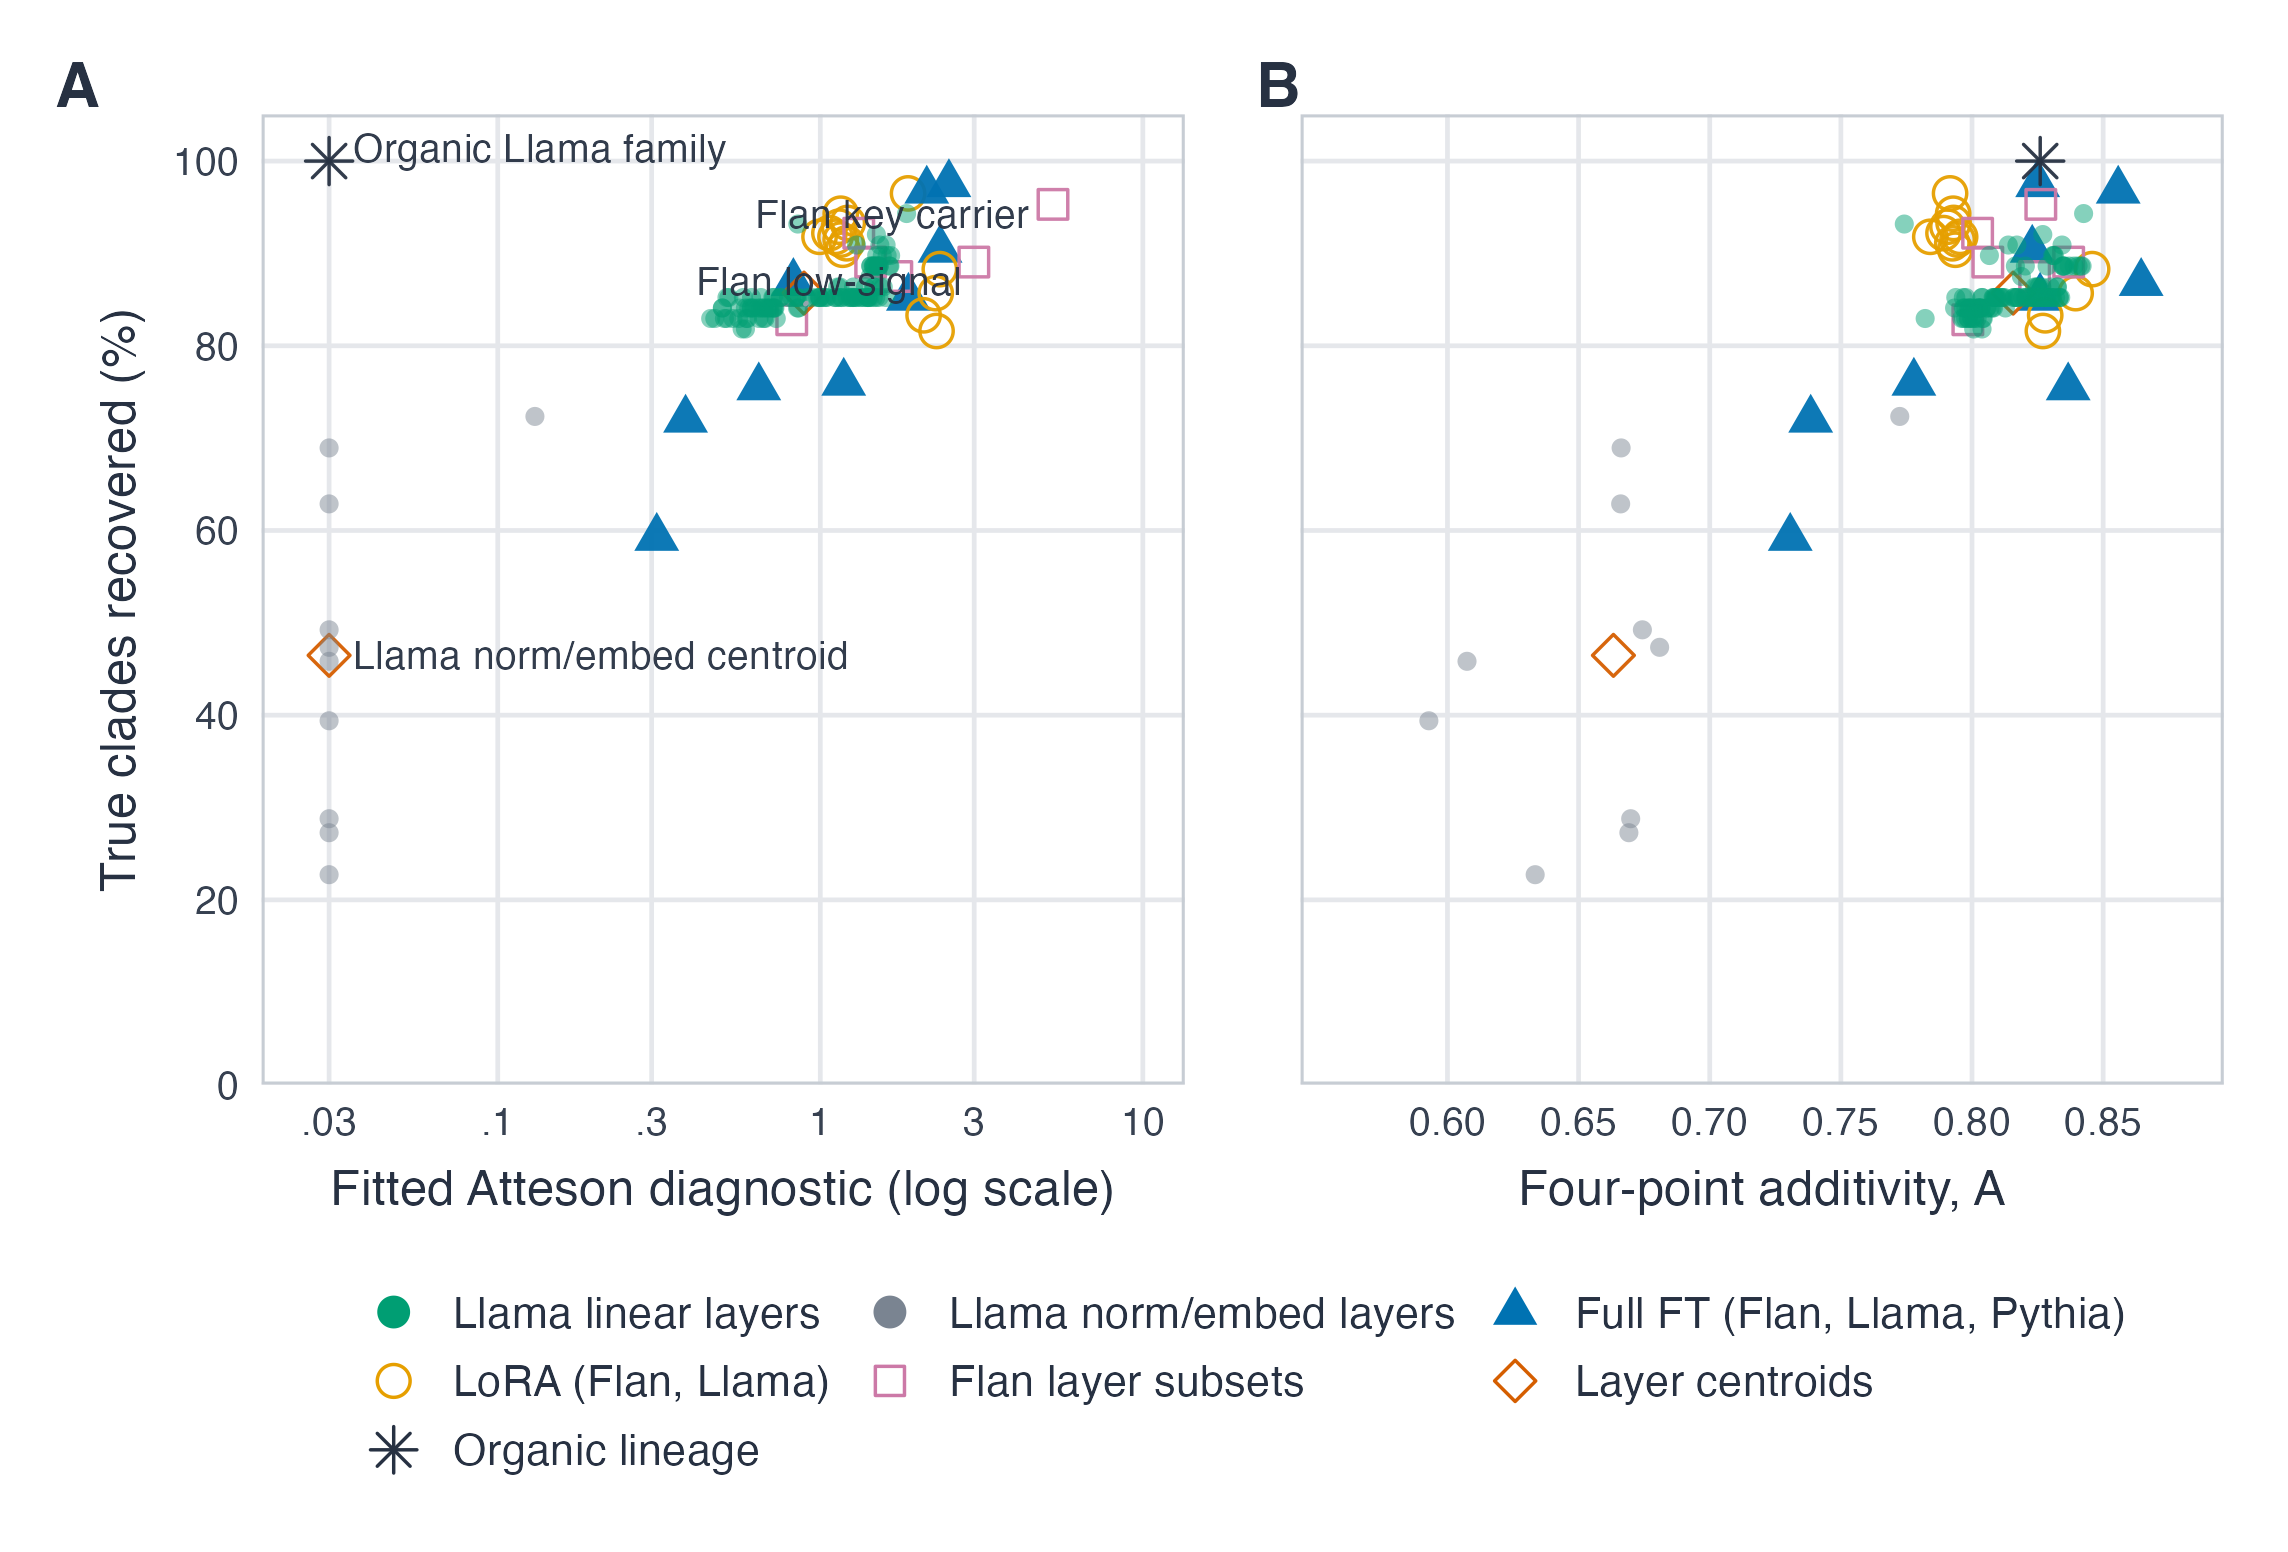
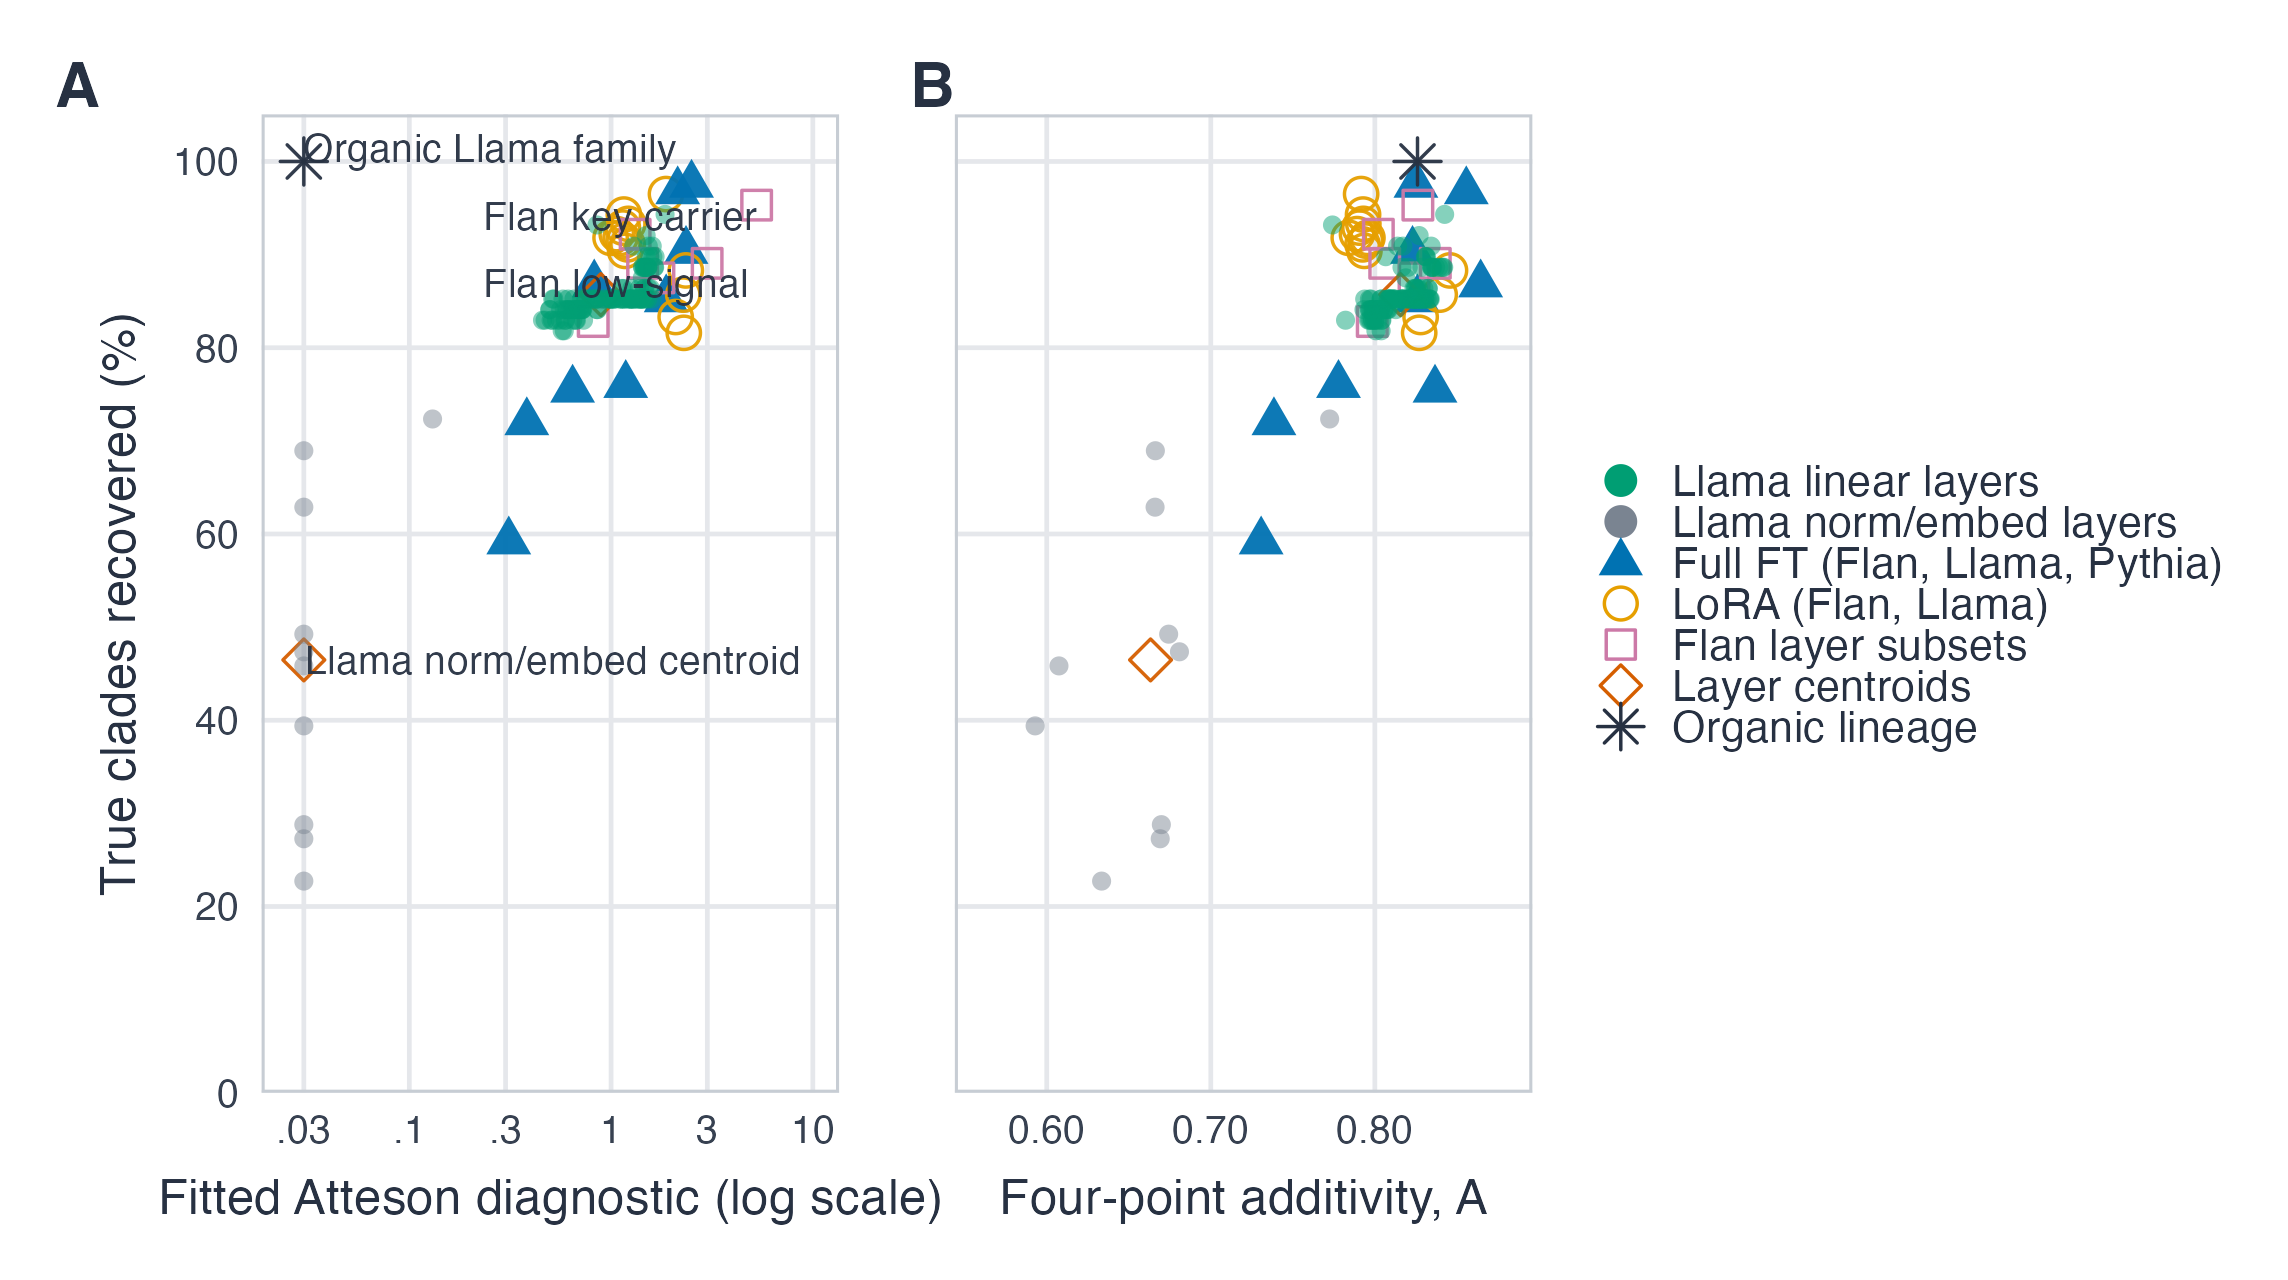
Polish figures and restore PhyloLM results

diff --git a/iclr_draft_v4.tex b/iclr_draft_v4.tex
@@ -11,6 +11,7 @@
 \usepackage{amsthm}
 \usepackage{enumitem}
 \usepackage{pifont}
+\DeclareMathSizes{9}{10}{7}{5}
 
 % Theorem environments and shared math notation.
 \newtheorem{theorem}{Theorem}
@@ -29,6 +30,21 @@
 \setlength{\intextsep}{8pt plus 2pt minus 2pt}
 \setlength{\abovecaptionskip}{4pt}
 \setlength{\belowcaptionskip}{2pt}
+
+% Compact captions: keep plots readable while avoiding body-sized caption blocks.
+\makeatletter
+\long\def\@makecaption#1#2{%
+  \vskip\abovecaptionskip
+  {\footnotesize
+    \sbox\@tempboxa{\textbf{#1:} #2}%
+    \ifdim \wd\@tempboxa >\hsize
+      \textbf{#1:} #2\par
+    \else
+      \global\@minipagefalse
+      \hb@xt@\hsize{\hfil\box\@tempboxa\hfil}%
+    \fi}
+  \vskip\belowcaptionskip}
+\makeatother
 
 % -----------------------------------------------------------------------
 % Working title — change before submission
@@ -362,49 +378,37 @@ We examine the results of our controlled and real data experiments with our enco
 We first determine how well direct lineage estimation (e.g., parent--child or within-branch) performs under different conditions. Table~\ref{tab:variants} reports the Mann--Whitney rank-biserial effect and the within-run branch correlation $r_{\mathrm{branch}}$ between cosine distance and a same-branch indicator. Every mean rank-biserial effect is positive and every $r_{\mathrm{branch}}$ is negative. Branch ordering is especially strong for LoRA in both architectures; comparisons between architectures remain descriptive because width and training setup are confounded.
 
 \begin{table}[t]
-\caption{Lineage signal and recovery by training regime (cosine; fresh LoRA rows use cumulative
-  root-to-node adapter updates restricted to trained target tensors, while full-FT rows use full model
-  weights). \emph{Ordering:} rank-biserial is the Mann--Whitney effect
-  size (same-branch vs.\ cross-branch cosine distances, oriented so larger $=$ siblings closer),
-  averaged per run with SE over runs; $r_{\mathrm{branch}}$ is the within-run point-biserial correlation between cosine
-  distance and the same-branch indicator, Fisher-$z$ averaged over runs (SE over runs, $\geq 4$ leaves).
-  \emph{Phylogeny:} RF and FN (true clades missed) are polytomy-aware NJ means reported together as
-  RF (SE); FN (SE); clade recovery $=1-\mathrm{FN}/|\text{true splits}|$; PAER (polytomy-aware exact
-  recovery) $=$ \% runs with $\mathrm{FN}=0$, i.e.\ every true clade recovered despite NJ's forced
-  binary refinements (binomial SE). The sample column gives $n_{\mathrm{rec}}/n_{\mathrm{ord}}$:
-  runs entering phylogeny recovery and direct-ordering summaries, respectively. The fresh Flan
-  regimes and the first three Llama regimes use the same 50 generated topology IDs and task/data
-  assignments. Four truths have no nontrivial unrooted split, so topology recovery uses the common
-  eligible subset ($46/26$ in every row). The displayed translation-held-out result is from an earlier independent
-  Llama sample; its shared-tree confirmation was still running when this draft was frozen. The
-  fresh matched weight--PhyloLM comparison and the historical robustness cohort are reported in
-  Table~\ref{tab:phylolm}. What correlates with recovery is analyzed in
-  Fig.~\ref{fig:coherence_recovery}.}
+\caption{Lineage signal and recovery by training regime (cosine). Fresh LoRA rows use cumulative
+  root-to-node updates on trained tensors; full-FT rows use full weights. Columns report run means
+  (SE); PAER is the percentage of runs with $\mathrm{FN}=0$. PhyloLM is decoder-only and therefore
+  n/a for Flan. Fresh Llama PhyloLM values use the same $n=46$ topology-eligible trees as weights;
+  the translation-held-out row is an earlier matched $n=46$ sample. Full definitions and
+  behavior-only results are in Appendix~\ref{app:details} and Table~\ref{tab:phylolm}.}
 \label{tab:variants}
 \begin{center}
 \scriptsize
 \setlength{\tabcolsep}{1.1pt}
 \resizebox{\linewidth}{!}{%
-\begin{tabular}{lrrrrrr}
+\begin{tabular}{lrrrrrrr}
 \toprule
-Variant & $n_{\rm rec}/n_{\rm ord}$ & \shortstack{Rank-bis.\\(SE)} & \shortstack{$r_{\mathrm{branch}}$\\(SE)} & \shortstack{Clade\\(SE)} & \shortstack{PAER\\(SE)} & \shortstack{RF (SE);\\FN (SE)} \\
+Variant & $n_{\rm rec}/n_{\rm ord}$ & \shortstack{Rank-bis.\\(SE)} & \shortstack{$r_{\mathrm{branch}}$\\(SE)} & \shortstack{Weight clade\\(SE)} & \shortstack{PhyloLM clade\\(SE)} & \shortstack{Weight PAER\\(SE)} & \shortstack{Weight RF (SE);\\FN (SE)} \\
 \midrule
-\multicolumn{7}{l}{\textbf{Encoder--decoder: Flan-T5-base} ($d=768$)} \\
-\multicolumn{7}{l}{\quad\textit{LoRA adapter scope}} \\
-\quad LoRA: key only                    & 46/26 & 0.97 (0.02) & $-0.89$ (0.03) & \textbf{87\%} (3\%) & \textbf{70\%} (7\%) & 2.78 (0.27); 0.37 (0.09) \\
-\quad LoRA: q/k/v                       & 46/26 & 0.99 (0.01) & $-0.91$ (0.02) & \textbf{93\%} (2\%) & \textbf{80\%} (6\%) & 2.43 (0.24); 0.20 (0.06) \\
-\quad LoRA: q/k/v/o (all attention)     & 46/26 & 0.99 (0.01) & $-0.91$ (0.02) & \textbf{92\%} (2\%) & \textbf{78\%} (6\%) & 2.48 (0.24); 0.22 (0.06) \\
-\quad LoRA: q/k/v/o + FFN projections  & 46/26 & 0.99 (0.01) & $-0.91$ (0.02) & \textbf{90\%} (3\%) & \textbf{74\%} (6\%) & 2.57 (0.25); 0.26 (0.07) \\
-\multicolumn{7}{l}{\quad\textit{Full fine-tuning}} \\
-\quad Full fine-tuning                  & 46/26 & 0.69 (0.08) & $-0.70$ (0.06) & \textbf{95\%} (2\%) & \textbf{89\%} (5\%) & 2.26 (0.23); 0.11 (0.05) \\
+\multicolumn{8}{l}{\textbf{Encoder--decoder: Flan-T5-base} ($d=768$)} \\
+\multicolumn{8}{l}{\quad\textit{LoRA adapter scope}} \\
+\quad LoRA: key only                    & 46/26 & 0.97 (0.02) & $-0.89$ (0.03) & \textbf{87\%} (3\%) & n/a & \textbf{70\%} (7\%) & 2.78 (0.27); 0.37 (0.09) \\
+\quad LoRA: q/k/v                       & 46/26 & 0.99 (0.01) & $-0.91$ (0.02) & \textbf{93\%} (2\%) & n/a & \textbf{80\%} (6\%) & 2.43 (0.24); 0.20 (0.06) \\
+\quad LoRA: q/k/v/o (all attention)     & 46/26 & 0.99 (0.01) & $-0.91$ (0.02) & \textbf{92\%} (2\%) & n/a & \textbf{78\%} (6\%) & 2.48 (0.24); 0.22 (0.06) \\
+\quad LoRA: q/k/v/o + FFN projections  & 46/26 & 0.99 (0.01) & $-0.91$ (0.02) & \textbf{90\%} (3\%) & n/a & \textbf{74\%} (6\%) & 2.57 (0.25); 0.26 (0.07) \\
+\multicolumn{8}{l}{\quad\textit{Full fine-tuning}} \\
+\quad Full fine-tuning                  & 46/26 & 0.69 (0.08) & $-0.70$ (0.06) & \textbf{95\%} (2\%) & n/a & \textbf{89\%} (5\%) & 2.26 (0.23); 0.11 (0.05) \\
 \midrule
-\multicolumn{7}{l}{\textbf{Decoder-only: Llama-3.2-1B} ($d=2048$)} \\
-\multicolumn{7}{l}{\quad\textit{Fresh shared-tree suite}} \\
-\quad LoRA qkv ($r{=}8$)                 & 46/26 & 1.00 (0.00) & $-0.92$ (0.02) & \textbf{95\%} (2\%) & \textbf{87\%} (5\%) & 2.30 (0.24); 0.13 (0.05) \\
-\quad LoRA qkv ($r{=}64$)                & 46/26 & 1.00 (0.00) & $-0.92$ (0.02) & \textbf{97\%} (2\%) & \textbf{91\%} (4\%) & 2.22 (0.22); 0.09 (0.04) \\
-\quad Full fine-tuning                   & 46/26 & 0.69 (0.08) & $-0.68$ (0.06) & \textbf{97\%} (2\%) & \textbf{91\%} (4\%) & 2.22 (0.22); 0.09 (0.04) \\
-\multicolumn{7}{l}{\quad\textit{Earlier held-out-task sample}} \\
-\quad Full FT, translation held out      & 46/36 & 0.71 (0.05) & $-0.65$ (0.05) & \textbf{95\%} (3\%) & \textbf{94\%} (4\%) & 1.63 (0.20); 0.09 (0.05) \\
+\multicolumn{8}{l}{\textbf{Decoder-only: Llama-3.2-1B} ($d=2048$)} \\
+\multicolumn{8}{l}{\quad\textit{Fresh shared-tree suite}} \\
+\quad LoRA qkv ($r{=}8$)                 & 46/26 & 1.00 (0.00) & $-0.92$ (0.02) & \textbf{95\%} (2\%) & 35\% (5\%) & \textbf{87\%} (5\%) & 2.30 (0.24); 0.13 (0.05) \\
+\quad LoRA qkv ($r{=}64$)                & 46/26 & 1.00 (0.00) & $-0.92$ (0.02) & \textbf{97\%} (2\%) & 24\% (5\%) & \textbf{91\%} (4\%) & 2.22 (0.22); 0.09 (0.04) \\
+\quad Full fine-tuning                   & 46/26 & 0.69 (0.08) & $-0.68$ (0.06) & \textbf{97\%} (2\%) & 52\% (5\%) & \textbf{91\%} (4\%) & 2.22 (0.22); 0.09 (0.04) \\
+\multicolumn{8}{l}{\quad\textit{Earlier held-out-task sample}} \\
+\quad Full FT, translation held out      & 46/36 & 0.71 (0.05) & $-0.65$ (0.05) & \textbf{95\%} (3\%) & 56\% (6\%) & \textbf{94\%} (4\%) & 1.63 (0.20); 0.09 (0.05) \\
 \bottomrule
 \end{tabular}
 }
@@ -425,11 +429,9 @@ Finally, the fitted Atteson diagnostic $\widetilde m$ and additivity proxy $A$ a
   \begin{center}
     \includegraphics[width=\linewidth]{\figpath/fig4_coherence_atteson.pdf}
   \end{center}
-  \caption{\textbf{What guides clade recovery.} \textbf{(A)} Clade recovery against the fitted
-    Atteson diagnostic $\widetilde m$ (minimum fitted edge length, internal or pendant, over twice the
-    non-additivity error). \textbf{(B)} The same recovery against the label-free quartet additivity proxy $A$, which needs
-    no ground-truth tree. Full-FT triangles summarize Flan-T5, Llama, and Pythia groups; LoRA circles
-    summarize Flan-T5 and Llama groups. }
+  \caption{\textbf{Diagnostics of clade recovery.} Recovery against \textbf{(A)} the fitted Atteson
+    diagnostic $\widetilde m$ and \textbf{(B)} label-free quartet additivity $A$. Full-FT triangles
+    summarize Flan-T5, Llama, and Pythia groups; LoRA circles summarize Flan-T5 and Llama groups.}
   \label{fig:coherence_recovery}
 \end{figure}
 
@@ -454,11 +456,9 @@ reflects whether two leaves fail in the same way, not transmission of held-out t
 
 
 \begin{table}[t]
-\caption{Weight$\to$behavior bridge by model and probe (full fine-tuning). Each cell is the
-  random-effects DerSimonian--Laird pooled correlation $r_{\mathrm{DL}}$ between weight distance and behavioral
-similarity (paired prompt-by-draw semantic DV, with immediate-EOS completions represented explicitly;
-$z$-scored within run), with the $95\%$ CI in brackets.
-$^\ddagger$degenerate Flan probe. Per-cell heterogeneity ($I^2$) in App.~\ref{app:regression}.}
+\caption{Weight$\to$behavior bridge under full fine-tuning: random-effects pooled
+  $r_{\mathrm{DL}}$ with 95\% CI. Immediate EOS is represented explicitly; $^\ddagger$degenerate
+  Flan probe. Heterogeneity is in Appendix~\ref{app:regression}.}
 \label{tab:behavior_holdout}
 \centering
 \small
@@ -494,12 +494,8 @@ The Mistral forks are large RLHF or direct-preference-optimization (DPO) weight 
   \begin{center}
     \includegraphics[width=\linewidth]{\figpath/hf_mistral_hero_3panel.pdf}
   \end{center}
-  \caption{\textbf{Estimating a real HuggingFace family from weights vs.\ behavior, against documented
-    truth.} A real Mistral-7B-v0.1 family of ten public checkpoints. \textbf{(Left)} documented lineage.
-    \textbf{(Middle)} our estimate (BHV Fr\'echet mean of the per-layer NJ trees obtained from cosine
-    weight distances over layers common to all ten checkpoints). \textbf{(Right)} PhyloLM estimation \citep{yax2025phylolm}
-    (neighbor-joining on the PhyloLM genetic distance between sampled output alleles, no weight access).  PhyloLM uses
-    its released \texttt{math} genes ($G{=}128$, $N{=}32$).}
+  \caption{\textbf{Documented Mistral lineage:} truth (left), our weight-based estimate (middle),
+    and PhyloLM's output-based estimate (right)~\citep{yax2025phylolm}. Both recover all three splits.}
   \label{fig:real-trees}
 \end{figure}
 % -----------------------------------------------------------------------
